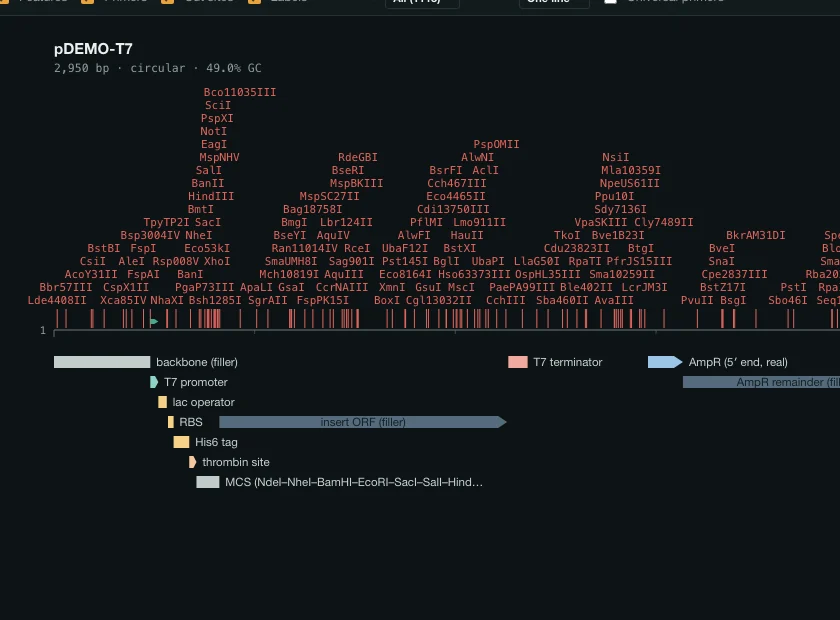
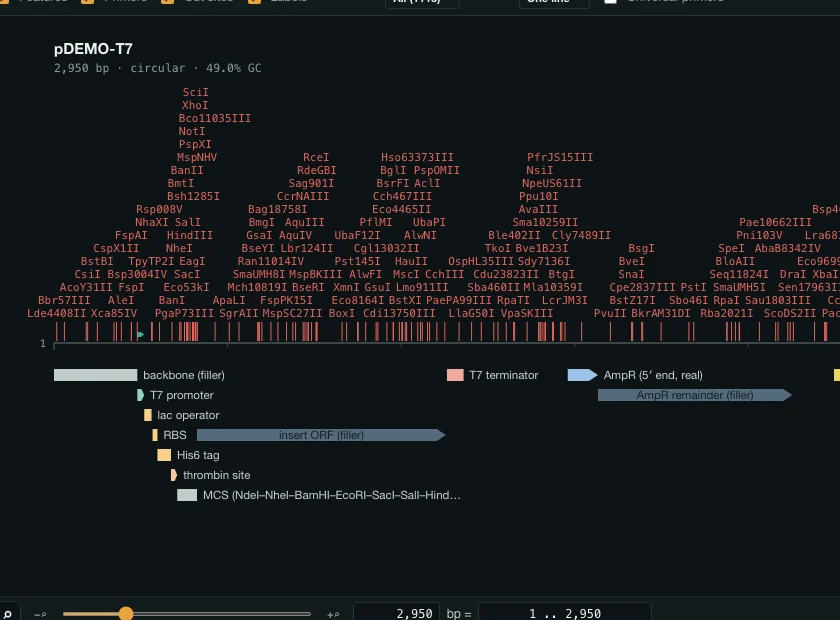
The landing page

diff --git a/docs/index.html b/docs/index.html
@@ -24,7 +24,13 @@
    different program. */
 :root{
   --paper:#0D1315; --ground:#131B1D; --sunk:#0A1012;
-  --ink:#EAF0EE; --body:#C6D2D0; --slate:#8A9B9D; --faint:#5E6F71;
+  /* `--faint` was #5E6F71: 3.56:1 on the paper, 3.64 on the sunk, 3.32 on a
+     card — fifteen body-size call sites, all needing 4.5, and all of them the
+     default theme every reader sees. The light block below was measured and
+     corrected before it was written down; the theme beside it never had been,
+     which is the wrong way round. #75888B reads 5.04 / 5.16 / 4.70 and stays
+     clearly quieter than --slate at 6.47, so faint still reads as faint. */
+  --ink:#EAF0EE; --body:#C6D2D0; --slate:#8A9B9D; --faint:#75888B;
   --line:#263235; --hair:#1D272A;
   --amber:#E8A33D; --amber-soft:rgba(232,163,61,.18); --amber-ink:#1a1205;
   --fwd:#4FB79E; --rev:#A98AD8; --cut:#E1655C;
@@ -169,7 +175,17 @@ figcaption{margin:14px 2px 0; font:400 13px/1.5 var(--mono); color:var(--faint)}
 .frame video{display:block; width:100%; height:auto; background:var(--sunk)}
 /* under 760 px the wide clips are a window shrunk into a palm; the phone crop
    says the same thing legibly, and nothing is downloaded that is not shown */
-.narrow{display:none}
+/* **`!important`, and this is the third time in this file.** `.narrow` is one
+   class (0,1,0) and `.frame video` is a class and an element (0,1,1), so the
+   rule that hides the phone clip on a desktop lost to the rule that lays it
+   out. It did not bite while `.narrow` was on an `<img>` — `img{display:block}`
+   is an element selector, which one class beats — and turning those five into
+   `<video>` silently un-hid every one of them: measured at 1400 px, the page
+   grew from 20,610 px to 23,969, the hero drew the same ring twice (the crop
+   blown up from 780 to 1050 under the clip it is a crop of), and a desktop
+   downloaded 670 kB of phone video it never showed. The Linux button's
+   `hidden` and `.wide` are the other two. */
+.narrow{display:none !important}
 @media (max-width:760px){
   /* **`!important`, and it is not laziness.** `.frame video` is a class and an
      element (0,1,1) and `.wide` is one class (0,1,0), so the rule meant to hide
@@ -180,7 +196,7 @@ figcaption{margin:14px 2px 0; font:400 13px/1.5 var(--mono); color:var(--faint)}
      other was the `hidden` attribute on the Linux button), so the hiding says
      what it means rather than hoping to out-rank whatever is added later. */
   .wide{display:none !important}
-  .narrow{display:block}
+  .narrow{display:block !important}   /* or the base rule above wins */
   /* a section carrying two clips shows one of them on a phone: the second
      would otherwise fall back to the same still as the first, and the same
      picture printed twice reads as the page having repeated itself */
@@ -509,7 +525,14 @@ footer{border-top:1px solid var(--hair); padding:44px 0 60px; background:var(--s
      follow: the rail's own translucency, the hero's two lights, the primary
      button's hover, the icon wash, and the mark's stroke and dot — which are
      SVG presentation attributes, so CSS is what reaches them */
-  header.rail{ background:rgba(247,249,249,.78) }
+  /* **.78 was translated from the dark rail's .74 without re-measuring.** In
+     dark the backdrop is dark whatever is under it; on light the rail crosses
+     the figures, which are near-black and are the page's tallest blocks — so
+     sampled over the hero the rail composited to rgb(196,200,200) and the nav
+     links read 3.35:1, the BETA tag 3.19, and the Get it button's outline
+     vanished at 1.08. At .95 the composite is rgb(235,237,237): 4.89, 4.65, and
+     the outline is back. .93 was tried and leaves the tag at 4.46. */
+  header.rail{ background:rgba(247,249,249,.95) }
   .hero::before{
     background:
       radial-gradient(58% 46% at 50% 34%, rgba(232,163,61,.20), transparent 70%),
@@ -609,17 +632,17 @@ footer{border-top:1px solid var(--hair); padding:44px 0 60px; background:var(--s
     <figure>
       <div class="frame">
         <div class="bar"><i></i><i></i><i></i><span>pDEMO-T7 · 2,950 bp · circular</span></div>
-        <video class="wide" data-clip="clip/map.mp4" poster="clip/map.webp" width="1200" height="750"
+        <video class="wide" data-clip="clip/map.mp4" data-poster="clip/map.webp" width="1200" height="750"
                muted loop playsinline preload="none"
                aria-label="The circular map being zoomed out to the whole plasmid, the restriction sites resolving into the margin as there is room for them."></video>
-        <video class="narrow" data-clip="clip/map-phone.mp4" poster="clip/map-phone.webp" width="390" height="380"
+        <video class="narrow" data-clip="clip/map-phone.mp4" data-poster="clip/map-phone.webp" width="390" height="380"
                muted loop playsinline preload="none" aria-label="The circular map of a 2,950 bp plasmid: features on both strands, every restriction site named in the margin."></video>
       </div>
       <figcaption>The map — every cut named in the margin, features on the strand they are on. Zoom is the same slider you drag.</figcaption>
     </figure>
     <figure class="rise wideonly">
       <div class="frame">
-        <video class="wide" data-clip="clip/measure.mp4" poster="clip/measure.webp" width="1200" height="750"
+        <video class="wide" data-clip="clip/measure.mp4" data-poster="clip/measure.webp" width="1200" height="750"
                muted loop playsinline preload="none"
                aria-label="Dragging an arc of the ring: the wedge follows the pointer and the length of the stretch is counted out as it grows."></video>
       </div>
@@ -659,17 +682,17 @@ footer{border-top:1px solid var(--hair); padding:44px 0 60px; background:var(--s
     </div>
     <figure class="rise">
       <div class="frame">
-        <video class="wide" data-clip="clip/drag.mp4" poster="clip/drag.webp" width="1200" height="750"
+        <video class="wide" data-clip="clip/drag.mp4" data-poster="clip/drag.webp" width="1200" height="750"
                muted loop playsinline preload="none"
                aria-label="Someone dragging across the His6 tag: the stretch lights up, a card follows the pointer with its length, melting temperature and GC, and the bar along the bottom spells the residues out."></video>
-        <video class="narrow" data-clip="clip/drag-phone.mp4" poster="clip/drag-phone.webp" width="390" height="219"
+        <video class="narrow" data-clip="clip/drag-phone.mp4" data-poster="clip/drag-phone.webp" width="390" height="219"
                muted loop playsinline preload="none" aria-label="The sequence view: enzyme names above the bases, primers as stepped arrows, both strands, translations under their own codons."></video>
       </div>
       <figcaption>Dragging across the His6 tag. Nothing was pressed first — the figures are what a selection says about itself.</figcaption>
     </figure>
     <figure class="rise wideonly">
       <div class="frame">
-        <video class="wide" data-clip="clip/find.mp4" poster="clip/find.webp" width="1200" height="750"
+        <video class="wide" data-clip="clip/find.mp4" data-poster="clip/find.webp" width="1200" height="750"
                muted loop playsinline preload="none"
                aria-label="A motif being typed into the find bar, and every place it matches lighting up along the sequence."></video>
       </div>
@@ -677,7 +700,7 @@ footer{border-top:1px solid var(--hair); padding:44px 0 60px; background:var(--s
     </figure>
     <figure class="rise wideonly">
       <div class="frame">
-        <video class="wide" data-clip="clip/primer.mp4" poster="clip/primer.webp" width="1200" height="750"
+        <video class="wide" data-clip="clip/primer.mp4" data-poster="clip/primer.webp" width="1200" height="750"
                muted loop playsinline preload="none"
                aria-label="A primer opened by double-clicking it: the dialog draws the construct under the oligo at the site it binds, and the figures move as the sequence is typed."></video>
       </div>
@@ -708,17 +731,17 @@ footer{border-top:1px solid var(--hair); padding:44px 0 60px; background:var(--s
              not a bigger one, which is the rule tools/clip.mjs cuts it by. The
              width and height are the clip's own, so the box before it decodes is
              the shape it will be. -->
-        <video class="wide" data-clip="clip/gel.mp4" poster="clip/gel.webp" width="448" height="400"
+        <video class="wide" data-clip="clip/gel.mp4" data-poster="clip/gel.webp" width="448" height="400"
                muted loop playsinline preload="none"
                aria-label="The gel running: the fragments of a four-enzyme digest migrating down the lanes as the running time goes up."></video>
-        <video class="narrow" data-clip="clip/gel.mp4" poster="clip/gel.webp" width="448" height="400"
+        <video class="narrow" data-clip="clip/gel.mp4" data-poster="clip/gel.webp" width="448" height="400"
                muted loop playsinline preload="none" aria-label="The digest view: a simulated agarose gel with a ladder and sample lanes, the fragments listed with their ends."></video>
       </div>
           <figcaption>The gel running — the ladder, the agarose and the buffer are yours to set.</figcaption>
     </figure>
     <figure class="rise wideonly">
       <div class="frame">
-        <video class="wide" data-clip="clip/enzdb.mp4" poster="clip/enzdb.webp" width="1200" height="750"
+        <video class="wide" data-clip="clip/enzdb.mp4" data-poster="clip/enzdb.webp" width="1200" height="750"
                muted loop playsinline preload="none"
                aria-label="The enzyme database searched: a card per enzyme with its cut drawn on both strands, the overhang, who sells it, what a methyl mark does to it, and what one digest costs."></video>
       </div>
@@ -726,7 +749,7 @@ footer{border-top:1px solid var(--hair); padding:44px 0 60px; background:var(--s
     </figure>
     <figure class="rise wideonly">
       <div class="frame">
-        <video class="wide" data-clip="clip/methyl.mp4" poster="clip/methyl.webp" width="1200" height="750"
+        <video class="wide" data-clip="clip/methyl.mp4" data-poster="clip/methyl.webp" width="1200" height="750"
                muted loop playsinline preload="none"
                aria-label="The methylation window: the strain the DNA was grown in and the one it is going into, and a row per methylase saying which sites here carry the mark and which enzymes it stops."></video>
       </div>
@@ -751,10 +774,10 @@ footer{border-top:1px solid var(--hair); padding:44px 0 60px; background:var(--s
     </div>
     <figure class="rise">
       <div class="frame">
-        <video class="wide" data-clip="clip/sanger.mp4" poster="clip/sanger.webp" width="1200" height="750"
+        <video class="wide" data-clip="clip/sanger.mp4" data-poster="clip/sanger.webp" width="1200" height="750"
                muted loop playsinline preload="none"
                aria-label="Two .ab1 reads attached to the construct: the table gives what each used, where it is good, where it lands and its verdict; the map shows both reads coloured by quality with the differences marked; the pileup carries the chromatogram under the letters."></video>
-        <video class="narrow" data-clip="clip/sanger-phone.mp4" poster="clip/sanger-phone.webp" width="390" height="287"
+        <video class="narrow" data-clip="clip/sanger-phone.mp4" data-poster="clip/sanger-phone.webp" width="390" height="287"
                muted loop playsinline preload="none" aria-label="The Sanger view: a table of reads with quality and verdict, a map of where each read lands, and the pileup with chromatograms."></video>
       </div>
       <figcaption>Two real <code>.ab1</code> files in: 587 of 620 bases used, good over 7–593 at Q38, landing at 247–833 forward — and the difference it found marked on the read where the read is worth believing.</figcaption>
@@ -778,10 +801,10 @@ footer{border-top:1px solid var(--hair); padding:44px 0 60px; background:var(--s
     </div>
     <figure class="rise">
       <div class="frame">
-        <video class="wide" data-clip="clip/guides.mp4" poster="clip/guides.webp" width="1200" height="750"
+        <video class="wide" data-clip="clip/guides.mp4" data-poster="clip/guides.webp" width="1200" height="750"
                muted loop playsinline preload="none"
                aria-label="A deletion designed: the region is taken from the construct, Design and then Scan are pressed, and the candidate guides come back grouped by the feature they sit in."></video>
-        <video class="narrow" data-clip="clip/guides-phone.mp4" poster="clip/guides-phone.webp" width="390" height="213"
+        <video class="narrow" data-clip="clip/guides-phone.mp4" data-poster="clip/guides-phone.webp" width="390" height="213"
                muted loop playsinline preload="none" aria-label="The guides view: target and nuclease, the editing vector with its gRNA and homology-arm sites, and the design controls."></video>
       </div>
       <figcaption>Design, then Scan — and 11 guides come back from 35 protospacers, grouped by the feature they sit in, with what each was dropped for said out loud.</figcaption>
@@ -963,7 +986,7 @@ footer{border-top:1px solid var(--hair); padding:44px 0 60px; background:var(--s
       </thead>
       <tbody>
         <tr><th scope="row">Where it runs</th><td class="cm us" data-of="Gene Studio"><span>macOS · Windows · Linux</span></td><td class="cm" data-of="SnapGene"><span>Windows · macOS · Ubuntu</span></td><td class="cm" data-of="Benchling"><span>in a browser</span></td><td class="cm" data-of="ApE"><span>macOS · Windows · Linux</span></td></tr>
-        <tr><th scope="row">Works with no network</th><td class="cm us" data-of="Gene Studio"><svg class="tick" aria-label="yes"><use href="#tb-tick"/></svg><span>the licence is checked on your own machine</span></td><td class="cm" data-of="SnapGene"><span>activation and licence checks need it — snapgene.com daily; a network licence lapses after 10 days offline</span></td><td class="cm" data-of="Benchling"><svg class="cross" aria-label="no"><use href="#tb-cross"/></svg><span>“You must be online to access and save data”</span></td><td class="cm" data-of="ApE"><svg class="tick" aria-label="yes"><use href="#tb-tick"/></svg><span>only the NCBI tools need one</span></td></tr>
+        <tr><th scope="row">Works with no network</th><td class="cm us" data-of="Gene Studio"><svg class="tick" aria-label="yes"><use href="#tb-tick"/></svg><span>the licence is checked on your own machine</span></td><td class="cm" data-of="SnapGene"><svg class="cross" aria-label="no"><use href="#tb-cross"/></svg><span>activation and licence checks need it — snapgene.com daily; a network licence lapses after 10 days offline</span></td><td class="cm" data-of="Benchling"><svg class="cross" aria-label="no"><use href="#tb-cross"/></svg><span>“You must be online to access and save data”</span></td><td class="cm" data-of="ApE"><svg class="tick" aria-label="yes"><use href="#tb-tick"/></svg><span>only the NCBI tools need one</span></td></tr>
         <tr><th scope="row">Where your files live</th><td class="cm us" data-of="Gene Studio"><svg class="tick" aria-label="yes"><use href="#tb-tick"/></svg><span>on your machine</span></td><td class="cm" data-of="SnapGene"><svg class="tick" aria-label="yes"><use href="#tb-tick"/></svg><span>on your machine</span></td><td class="cm" data-of="Benchling"><svg class="cross" aria-label="no"><use href="#tb-cross"/></svg><span>in Benchling’s cloud</span></td><td class="cm" data-of="ApE"><svg class="tick" aria-label="yes"><use href="#tb-tick"/></svg><span>on your machine</span></td></tr>
         <tr><th scope="row">Opens SnapGene .dna</th><td class="cm us" data-of="Gene Studio"><svg class="tick" aria-label="yes"><use href="#tb-tick"/></svg></td><td class="cm" data-of="SnapGene"><svg class="tick" aria-label="yes"><use href="#tb-tick"/></svg><span>its own format</span></td><td class="cm" data-of="Benchling"><svg class="tick" aria-label="yes"><use href="#tb-tick"/></svg></td><td class="cm" data-of="ApE"><i class="nostate">not stated</i></td></tr>
         <tr><th scope="row">Reads and writes GenBank</th><td class="cm us" data-of="Gene Studio"><svg class="tick" aria-label="yes"><use href="#tb-tick"/></svg></td><td class="cm" data-of="SnapGene"><svg class="tick" aria-label="yes"><use href="#tb-tick"/></svg></td><td class="cm" data-of="Benchling"><svg class="tick" aria-label="yes"><use href="#tb-tick"/></svg></td><td class="cm" data-of="ApE"><svg class="tick" aria-label="yes"><use href="#tb-tick"/></svg></td></tr>
@@ -1102,7 +1125,17 @@ fetch(FEED, {cache:'no-cache'}).then(r => r.ok ? r.json() : null).then(f => {
          clip cropped to where the action is rather than a still: a picture is
          the wrong answer to "does it move", and what a phone cannot read is the
          whole window, not the thing happening in it. */
-      if(getComputedStyle(v).display === 'none' || still.matches){
+      /* **A poster is fetched even where the video is not drawn.**
+         `display:none` does not stop it — measured over the network log at a
+         true 390 px, the page asked for all ten desktop posters, 1.28 MB for
+         figures a phone can never show, and a desktop paid the mirror of it in
+         phone posters. The source is already attached here for exactly this
+         reason; the poster goes the same way, and only for the one on screen.
+         Reduced motion still gets it, because there the poster *is* the
+         picture — so it is set before the early return. */
+      const shown = getComputedStyle(v).display !== 'none';
+      if(shown && !v.getAttribute('poster')) v.poster = v.dataset.poster;
+      if(!shown || still.matches){
         v.removeAttribute('autoplay'); v.pause?.(); continue; }
       if(!v.dataset.armed){
         v.dataset.armed = '1';
